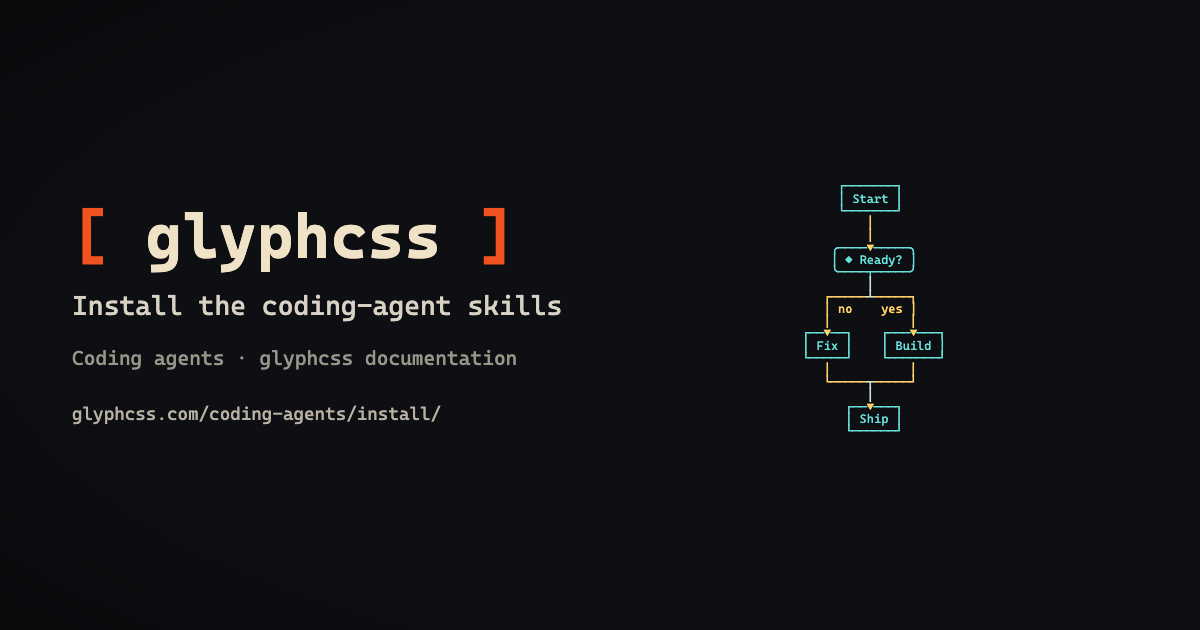
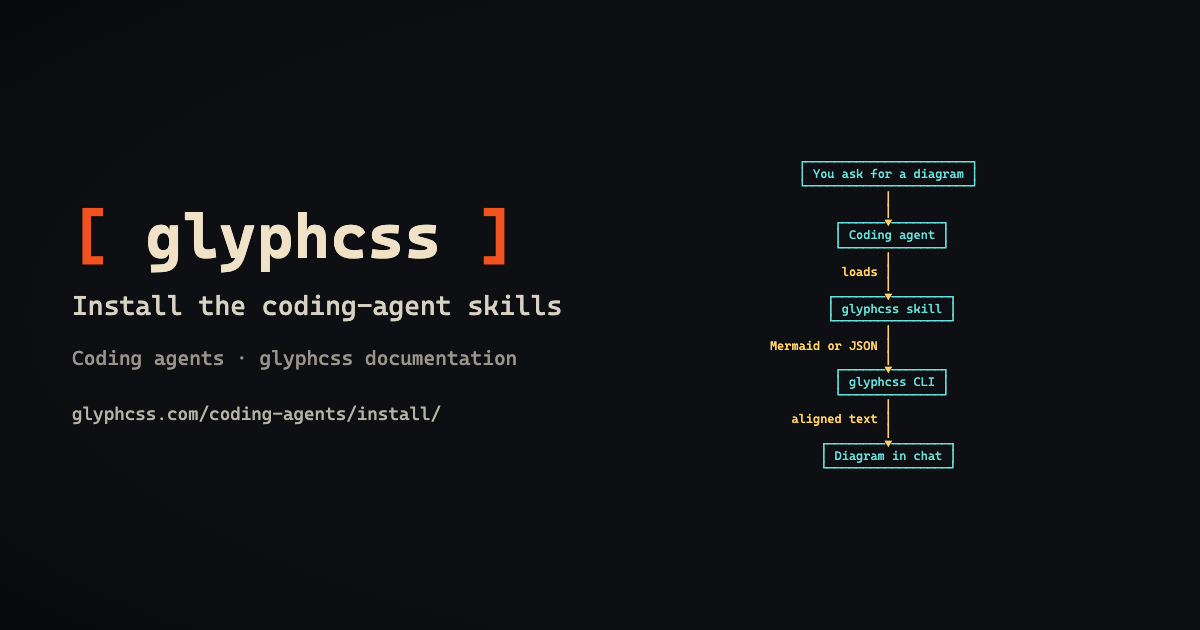
fix(website): crop social-card renders, pick each page's richest example and centre globes on the Atlantic

Changed region(s): [[0.6475, 0.2413, 0.8325, 0.754]]

diff --git a/website/src/services/static-workbench/docsCards.ts b/website/src/services/static-workbench/docsCards.ts
@@ -1,5 +1,5 @@
 import { docsSidebar } from "../../config/docsSidebar.mjs";
-import { firstGlyphDocsExample } from "../docs-render/firstExample";
+import { glyphDocsExamples } from "../docs-render/firstExample";
 import { fitGlyphDocsOutput, renderGlyphDocs } from "../docs-render/glyphRender";
 
 export const DOCS_SECTION_RENDERS: Record<string, string> = {
@@ -10,16 +10,32 @@ export const DOCS_SECTION_RENDERS: Record<string, string> = {
   Maps: "home",
   Diagrams: "diagrams",
   Charts: "charts",
-  "Coding agents": "diagrams",
+  "Coding agents": "agents",
   Help: "docs-start",
 };
 
-export type SocialGrid = { html: string; cols: number; rows: number };
+// `indent` blank columns precede the art and `cols` covers the inked width, so
+// the card crops the padding a render keeps for its chat or terminal width.
+export type SocialGrid = { html: string; cols: number; rows: number; indent: number };
 
 export function socialGrid(entry: { text: string; html?: string }): SocialGrid {
   const lines = entry.text.split("\n");
   const html = entry.html ?? entry.text.replace(/&/g, "&amp;").replace(/</g, "&lt;").replace(/>/g, "&gt;");
-  return { html, cols: Math.max(...lines.map((line) => [...line].length)), rows: lines.length };
+  const inked = lines.filter((line) => /[^ \u2800]/.test(line));
+  const indent = Math.min(...inked.map((line) => [...line].findIndex((char) => char !== " " && char !== "\u2800")));
+  const width = Math.max(...inked.map((line) => [...line.replace(/[ \u2800]+$/, "")].length));
+  return { html, cols: Math.max(1, width - indent), rows: lines.length, indent: Number.isFinite(indent) ? indent : 0 };
+}
+
+// The fitted font size the card panel gives a grid; mirrors generate-og.mjs.
+export const CARD_PANEL = { w: 548, h: 490, maxFont: 30 };
+export function cardFont(grid: Pick<SocialGrid, "cols" | "rows">) {
+  return Math.min(CARD_PANEL.maxFont, CARD_PANEL.w / (grid.cols * 0.6), CARD_PANEL.h / grid.rows);
+}
+
+// Inked area on the card in px²: favours examples that are both rich and large.
+function cardScore(text: string, grid: SocialGrid) {
+  return text.replace(/[\s\u2800]/g, "").length * cardFont(grid) ** 2;
 }
 
 type DocsEntry = { id: string; body?: string; data: { title: string } };
@@ -30,19 +46,22 @@ export async function socialDocsCards(entries: DocsEntry[]) {
   for (const { id, body = "", data } of entries) {
     const slug = `docs/${id || "index"}`;
     const section = docsSidebar.find((group) => group.items.some((item) => item.slug === id))?.label ?? "Help";
-    const input = await firstGlyphDocsExample(body);
-    if (input) {
+    let best: { grid: SocialGrid; score: number } | undefined;
+    for (const input of await glyphDocsExamples(body)) {
       const output = fitGlyphDocsOutput(
         await renderGlyphDocs(input),
         "textScale" in (input.options ?? {}) ? (input.options as { textScale?: number }).textScale : 1,
       );
-      renders[slug] = [socialGrid(output)];
+      const grid = socialGrid(output);
+      const score = cardScore(output.text, grid);
+      if (!best || score > best.score) best = { grid, score };
     }
+    if (best) renders[slug] = [best.grid];
     manifest.push({
       slug,
       title: data.title,
       section,
-      render: input ? slug : DOCS_SECTION_RENDERS[section]!,
+      render: best ? slug : DOCS_SECTION_RENDERS[section]!,
       url: `/${id}/`,
     });
   }

diff --git a/website/src/services/static-workbench/docsCards.test.ts b/website/src/services/static-workbench/docsCards.test.ts
@@ -1,9 +1,9 @@
 import { readFileSync, readdirSync } from "node:fs";
 import { describe, expect, it, vi } from "vitest";
 import { docsSidebar } from "../../config/docsSidebar.mjs";
-import { firstGlyphDocsExample } from "../docs-render/firstExample";
+import { firstGlyphDocsExample, glyphDocsExamples } from "../docs-render/firstExample";
 import { fitGlyphDocsOutput, renderGlyphDocs } from "../docs-render/glyphRender";
-import { socialGrid } from "./docsCards";
+import { cardFont, socialGrid } from "./docsCards";
 
 function readEntries(dir = "src/content/docs", root = dir): { id: string; body: string; data: { title: string } }[] {
   return readdirSync(dir, { withFileTypes: true }).flatMap((entry) => {
@@ -39,22 +39,31 @@ describe("social JSON endpoints", () => {
     for (const doc of manifest) expect(renders[doc.render], doc.slug).toBeDefined();
   });
 
-  it("uses the first actual GlyphRender byte-for-byte for every page with examples", async () => {
+  it("uses one of the page's actual GlyphRender outputs, never smaller on the card than the first", async () => {
     let count = 0;
     for (const entry of readEntries()) {
-      const input = await firstGlyphDocsExample(entry.body);
-      if (!input) continue;
+      const inputs = await glyphDocsExamples(entry.body);
+      if (!inputs.length) continue;
       count++;
       const doc = manifest.find((doc: { slug: string }) => doc.slug === `docs/${entry.id}`);
       expect(doc.render).toBe(doc.slug);
-      expect(renders[doc.render]).toEqual([socialGrid(fitGlyphDocsOutput(await renderGlyphDocs(input)))]);
+      const grids = await Promise.all(
+        inputs.map(async (input) =>
+          socialGrid(
+            fitGlyphDocsOutput(
+              await renderGlyphDocs(input),
+              (input.options as { textScale?: number } | undefined)?.textScale ?? 1,
+            ),
+          ),
+        ),
+      );
       const [grid] = renders[doc.render];
-      expect(Math.min(548 / (grid.cols * 0.6), 490 / grid.rows), entry.id).toBeGreaterThanOrEqual(11);
+      expect(grids, entry.id).toContainEqual(grid);
+      expect(cardFont(grid), entry.id).toBeGreaterThanOrEqual(11);
     }
     expect(count).toBeGreaterThan(35);
     expect(renders["docs/charts/bar"][0].html).toContain("Search");
     expect(renders["docs/charts/bar"]).not.toEqual(renders.charts);
-    expect(renders["docs/diagrams/flowcharts"][0].html).toContain("Cart");
   });
 
   it("keeps workbench cards readable with one five-node flowchart and two bold charts", () => {
@@ -109,4 +118,10 @@ it("parses multiline JSON props in document order, ignoring fenced and inline co
     options: { width: 48 },
   });
   await expect(firstGlyphDocsExample('<GlyphRender kind="diagram" source={variable} />')).rejects.toThrow();
+});
+
+describe("socialGrid", () => {
+  it("crops the blank columns a render pads around its art", () => {
+    expect(socialGrid({ text: "      \n   ab   \n    cde \n" })).toMatchObject({ indent: 3, cols: 4, rows: 4 });
+  });
 });

diff --git a/website/src/services/static-workbench/socialRenders.ts b/website/src/services/static-workbench/socialRenders.ts
@@ -1,10 +1,10 @@
-import { readFile } from "node:fs/promises";
-import { resolveGeometry, type Polygon, type Vec3 } from "@glyphcss/core";
+import { resolveGeometry, type Polygon } from "@glyphcss/core";
 import { compileScene, createGlyphOrthographicCamera } from "glyphcss";
 import { renderGlyphDocs } from "../docs-render/glyphRender";
 import { PRESETS } from "../../features/gallery/data/presetList";
 import { CHART_PRESETS } from "../../features/charts/model/chartsSpec";
 import { socialGrid } from "./docsCards";
+import { staticLoader, staticMap } from "./scenes";
 
 export async function socialDiagram() {
   return socialGrid(
@@ -59,17 +59,32 @@ export function socialDocsSections() {
   );
 }
 
+// Atlantic-centred so the card shows the Americas, Europe and Africa.
 export async function socialEarth() {
-  const data = JSON.parse(await readFile("public/data/landing-earth.json", "utf8")) as {
-    vertices: Vec3[];
-    colors: string[];
-    faces: { v: number[]; c: number }[];
-  };
-  const polygons: Polygon[] = data.faces.map((face) => ({
-    vertices: face.v.map((index) => data.vertices[index]!),
-    color: data.colors[face.c],
-  }));
-  return socialScene(polygons, 70, 0);
+  return socialGrid(await staticMap({ centerLon: -38, centerLat: -8, cols: 160, rows: 72 }));
+}
+
+export function socialLoaders() {
+  return ["rings", "matrix"].map((id) => socialGrid(staticLoader(id, 1.6)));
+}
+
+export async function socialAgents() {
+  return socialGrid(
+    await renderGlyphDocs({
+      kind: "diagram",
+      source:
+        "flowchart TB; You[You ask for a diagram] --> Agent[Coding agent]; Agent -->|loads| Skill[glyphcss skill]; Skill -->|Mermaid or JSON| CLI[glyphcss CLI]; CLI -->|aligned text| Chat[Diagram in chat]",
+      options: {
+        target: "web",
+        width: 64,
+        height: 40,
+        charset: "box",
+        overflow: "expand",
+        nodeColor: "#69e0db",
+        edgeColor: "#ffd166",
+      },
+    }),
+  );
 }
 
 export function socialBench() {
@@ -77,8 +92,9 @@ export function socialBench() {
 }
 
 function socialScene(polygons: Polygon[], rotX: number, rotY: number) {
-  const cols = 120,
-    rows = 60;
+  // A coarser grid keeps glyphs legible at card size.
+  const cols = 84,
+    rows = 42;
   const camera = createGlyphOrthographicCamera({ rotX, rotY, zoom: 1 });
   const points = polygons.flatMap((polygon) => polygon.vertices.map((vertex) => camera.project(vertex, cols, rows, 2)));
   const xs = points.map((point) => point[0]);

diff --git a/website/src/services/static-workbench/scenes.ts b/website/src/services/static-workbench/scenes.ts
@@ -82,17 +82,17 @@ export function staticSynth() {
   };
 }
 
-export function staticLoader() {
-  const loader = findLoader(DEFAULT_LOADER);
+export function staticLoader(id = DEFAULT_LOADER, time = 0) {
+  const loader = findLoader(id);
   return {
-    title: `${loader.label} at time zero`,
+    title: `${loader.label} at time ${time === 0 ? "zero" : time}`,
     ...fieldRender(
       loader.layers.map((layer) => {
         const effect = getGlyphEffect(layer.effectId);
         if (!effect) throw new Error(`Unknown loader effect: ${layer.effectId}`);
         return {
           effect: effect as GlyphEffectDefinition<GlyphEffectParamSchema, unknown>,
-          params: { ...layer.params, time: 0 },
+          params: { ...layer.params, time },
           blend: layer.blend,
         };
       }),
@@ -149,7 +149,7 @@ export async function staticWordArt() {
   return { title: "Glyph CSS in the bundled font", text: gridText(result.grid), html: result.inner };
 }
 
-export async function staticMap() {
+export async function staticMap(view: { centerLon?: number; centerLat?: number; cols?: number; rows?: number } = {}) {
   const base = "public/data/geo-tiles";
   const manifest = JSON.parse(await readFile(`${base}/manifest.json`, "utf8"));
   if (manifest.version !== 2 || manifest.format !== "int16" || manifest.byteOrder !== "little-endian") {
@@ -165,11 +165,10 @@ export async function staticMap() {
     source: manifest.source,
     sampler: manifest.sampler,
   });
-  const defaults = MAPS_URL_DEFAULTS;
+  const defaults = { ...MAPS_URL_DEFAULTS, ...view };
   const projection = glyphMapGlobe({ exaggeration: defaults.exaggeration });
   const pose = projection.cameraForCenter!(defaults.centerLon, defaults.centerLat);
-  const cols = 160,
-    rows = 72;
+  const { cols = 160, rows = 72 } = view;
   const camera = createGlyphOrthographicCamera({ ...pose, zoom: 1 });
   // Fit the globe into the same virtual cell metrics compileScene uses.
   const unitCamera = createGlyphOrthographicCamera({ rotX: 0, rotY: 0, zoom: 1 });

diff --git a/website/src/services/docs-render/firstExample.ts b/website/src/services/docs-render/firstExample.ts
@@ -3,13 +3,18 @@ import type { Node } from "@astrojs/compiler/types";
 import type { GlyphDocsRenderInput } from "./glyphRender";
 
 export async function firstGlyphDocsExample(body: string): Promise<GlyphDocsRenderInput | undefined> {
+  return (await glyphDocsExamples(body))[0];
+}
+
+export async function glyphDocsExamples(body: string): Promise<GlyphDocsRenderInput[]> {
   // Code samples describe components; only actual MDX examples belong on cards.
   const markup = body
     .replace(/^([ \t]*)(`{3,}|~{3,})[^\n]*\n[\s\S]*?^\1\2[ \t]*(?=\r?$)/gm, "")
     .replace(/(`+)[^\n]*?\1/g, "");
-  if (!markup.includes("<GlyphRender")) return;
+  if (!markup.includes("<GlyphRender")) return [];
   const { ast } = await parse(markup);
-  function first(node: Node): GlyphDocsRenderInput | undefined {
+  const found: GlyphDocsRenderInput[] = [];
+  function visit(node: Node) {
     if (node.type === "component" && node.name === "GlyphRender") {
       const input: Record<string, unknown> = {};
       for (const attribute of node.attributes) {
@@ -18,14 +23,11 @@ export async function firstGlyphDocsExample(body: string): Promise<GlyphDocsRend
         input[attribute.name] = attribute.kind === "quoted" ? attribute.value : JSON.parse(attribute.value);
       }
       if (!input.kind || input.source === undefined) throw new Error("GlyphRender requires kind and source.");
-      return input as GlyphDocsRenderInput;
+      found.push(input as GlyphDocsRenderInput);
+      return;
     }
-    if ("children" in node) {
-      for (const child of node.children) {
-        const result = first(child);
-        if (result) return result;
-      }
-    }
+    if ("children" in node) for (const child of node.children) visit(child);
   }
-  return first(ast);
+  visit(ast);
+  return found;
 }

diff --git a/website/src/integrations/astro/og-renders.json.ts b/website/src/integrations/astro/og-renders.json.ts
@@ -1,11 +1,13 @@
 import { getCollection } from "astro:content";
-import { staticLoader, staticMap, staticSynth } from "../../services/static-workbench/scenes";
+import { staticSynth } from "../../services/static-workbench/scenes";
 import {
   socialBench,
   socialEarth,
   socialDiagram,
   socialCharts,
   socialDocsSections,
+  socialLoaders,
+  socialAgents,
 } from "../../services/static-workbench/socialRenders";
 import { socialDocsCards, socialGrid } from "../../services/static-workbench/docsCards";
 
@@ -16,9 +18,10 @@ export async function GET() {
     bench: [socialBench()],
     diagrams: [await socialDiagram()],
     charts: await socialCharts(),
-    maps: [socialGrid(await staticMap())],
+    agents: [await socialAgents()],
+    maps: [await socialEarth()],
     synth: [socialGrid(staticSynth())],
-    loaders: [socialGrid(staticLoader())],
+    loaders: socialLoaders(),
     ...socialDocsSections(),
     ...renders,
   });

diff --git a/website/src/services/static-workbench/socialRenders.test.ts b/website/src/services/static-workbench/socialRenders.test.ts
@@ -2,10 +2,10 @@ import { describe, expect, it } from "vitest";
 import { socialBench, socialEarth } from "./socialRenders";
 
 describe("social-card scene sources", () => {
-  it("compiles the home page's actual Earth mesh into coloured text", async () => {
+  it("renders the ETOPO1 globe over the Atlantic as coloured text", async () => {
     const result = await socialEarth();
-    expect(result.cols).toBe(120);
-    expect(result.rows).toBe(60);
+    expect(result.rows).toBe(72);
+    expect(result.cols).toBeGreaterThan(100);
     expect(result.html).toContain("color:");
     expect(result.html.replace(/<[^>]+>/g, "").replace(/\s/g, "").length).toBeGreaterThan(1000);
     expect(result.html).not.toMatch(/<(canvas|img|svg)\b/);
